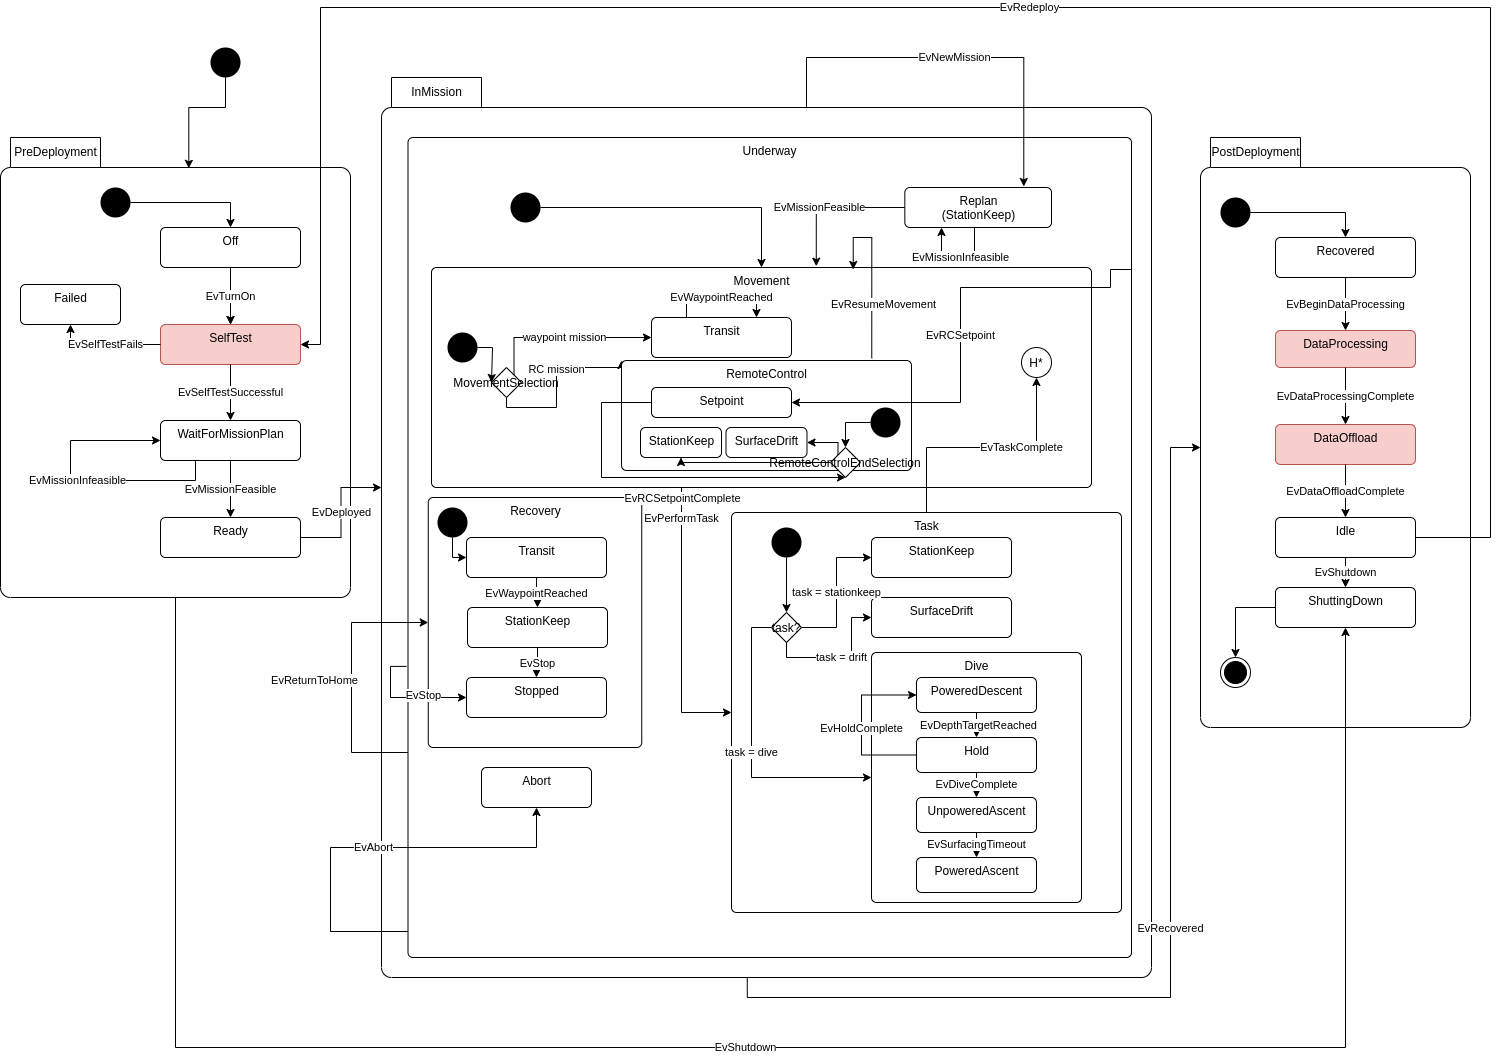
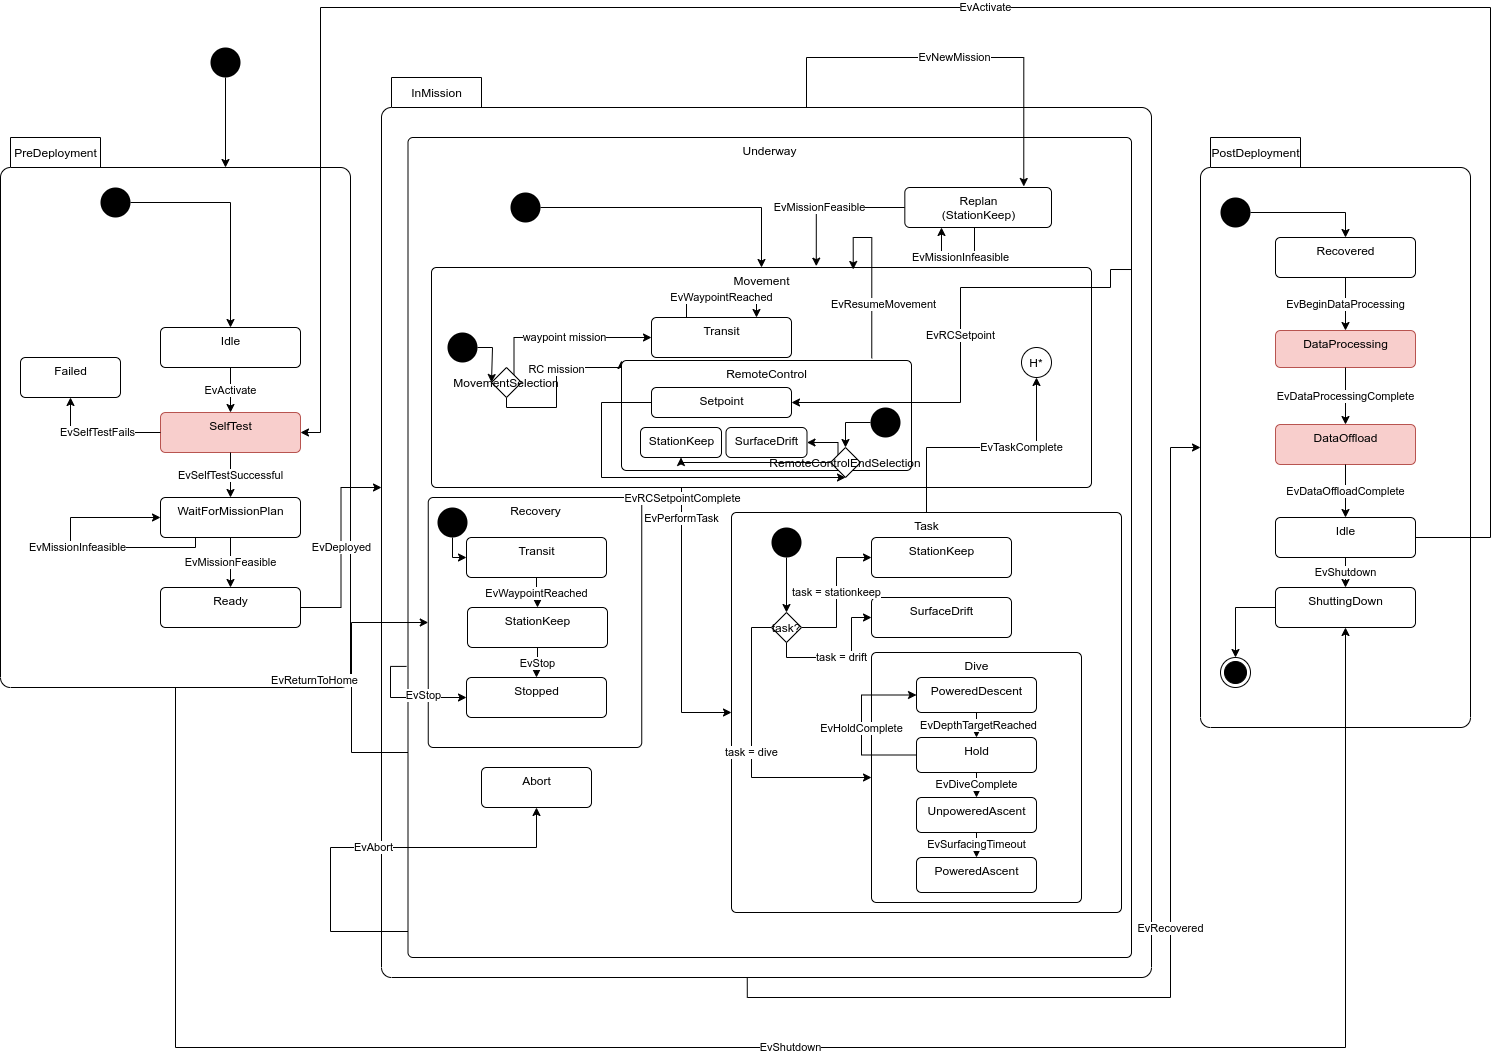
Add idle state before mission start. Update SelfTest to allow operations while Degraded (#76)
* Remove Off state, add Predeployment::Idle state before SelfTest. Change EvReploy to EvActivate, and use it trigger (Post/Pre)Deployment::Idle to SelfTest

* State-machine adjusted list of Command options under BotStatus

diff --git a/src/web/central_command/client/components/BotDetails.jsx b/src/web/central_command/client/components/BotDetails.jsx
@@ -9,49 +9,110 @@ import { formatLatitude, formatLongitude, formatAttitudeAngle } from './Utilitie
 let prec = 2
 let previous_status_time = Date.now() * 1e3
 
-let commandDescriptions = {
-    RESTART_ALL_SERVICES: "Restart Services",
-    REBOOT_COMPUTER: "Reboot Bot",
-    RECOVERED: "Recover Bot",
-    SHUTDOWN: "Shutdown Bot"
-}
+let commandList = [
+    {
+        enumString: 'ACTIVATE',
+        description: 'Activate Bot',
+        statesAvailable: [
+            /^.+__IDLE$/
+        ]
+    },
+    {
+        enumString: 'NEXT_TASK',
+        description: 'Next Task',
+        statesAvailable: [
+            /^IN_MISSION__.+$/
+        ]
+    },
+    {
+        enumString: 'RETURN_TO_HOME',
+        description: 'Return to Home',
+        statesAvailable: [
+            /^IN_MISSION__.+$/
+        ]
+    },
+    {
+        enumString: 'STOP',
+        description: 'Stop',
+        statesAvailable: [
+            /^IN_MISSION__.+$/
+        ]
+    },
+    {
+        enumString: 'RECOVERED',
+        description: 'Recover Bot',
+        statesAvailable: [
+            /^IN_MISSION__.+$/
+        ]
+    },
+    {
+        enumString: 'SHUTDOWN',
+        description: 'Shutdown Bot',
+        statesAvailable: [
+            /^POST_DEPLOYMENT__IDLE$/,
+            /^PRE_DEPLOYMENT__.+$/
+        ]
+    },
+    {
+        enumString: 'RESTART_ALL_SERVICES',
+        description: 'Restart Services'
+    },
+    {
+        enumString: 'REBOOT_COMPUTER',
+        description: 'Reboot Bot'
+    },
+    {
+        enumString: 'SHUTDOWN_COMPUTER',
+        description: 'Force Shutdown'
+    }
+]
 
-function commandOptionElement(command) {
-    return <option value={command} key={command}>{commandDescriptions[command]}</option>
-}
-
-function issueCommand(api, botId, commandType) {
-    if (confirm("Are you sure you'd like to " + commandDescriptions[commandType] + " (" + commandType + ")?")) {
-        let command = {
-            botId: botId,
-            type: commandType
+function getAvailableCommands(missionState) {
+    return commandList.filter((command) => {
+        let statesAvailable = command.statesAvailable
+        if (statesAvailable == null) {
+            return true
         }
 
-        api.postCommand(command)
+        for (let stateAvailable of statesAvailable) {
+            if (stateAvailable.test(missionState)) return true;
+        }
+
+        return false;
+    })
+}
+
+function issueCommand(api, botId, command) {
+    if (confirm("Are you sure you'd like to " + command.description + " (" + command.enumString + ")?")) {
+        let c = {
+            botId: botId,
+            type: command.enumString
+        }
+
+        console.log(c)
+        api.postCommand(c)
     }
 }
 
-function commandOptions(missionState) {
-    var commands = [
-        "",
-        "RESTART_ALL_SERVICES",
-        "REBOOT_COMPUTER",
-        "RECOVERED"
-    ]
+function getCommandSelectElement(api, bot) {
+    let availableCommands = getAvailableCommands(bot.missionState)
 
-    switch(missionState) {
-        case "POST_DEPLOYMENT__IDLE":
-            commands = commands.concat([
-                "SHUTDOWN",
-            ])
-            break;
-    }
+    return (
+        <select onChange={(evt) => { 
+            issueCommand(api, bot.botId, availableCommands[evt.target.value])
+            evt.target.selectedIndex = -1
+        }} value={-1}>
 
-    let commandOptionElements = commands.map((command) => {
-        return commandOptionElement(command)
-    })
+            <option value="-1" key="-1">...</option>
 
-    return commandOptionElements
+            {
+                availableCommands.map((command, index) => {
+                    return <option value={index} key={index}>{command.description}</option>
+                })            
+            }
+
+        </select>
+    )
 }
 
 // Get the table row for the health of the vehicle
@@ -126,9 +187,7 @@ export function BotDetailsComponent(bot, api) {
                 <tr>
                     <td>Command</td>
                     <td>
-                        <select onChange={(evt) => { issueCommand(api, bot.botId, evt.target.value); evt.target.selectedIndex = 0 }} value={-1}>
-                            {commandOptions(bot.missionState)}
-                        </select>
+                        { getCommandSelectElement(api, bot) }
                     </td>
                 </tr>
                 {healthRow(bot)}

diff --git a/src/bin/mission_manager/machine.h b/src/bin/mission_manager/machine.h
@@ -43,7 +43,6 @@ struct MissionManagerStateMachine;
     };
 
 // events
-STATECHART_EVENT(EvTurnOn)
 STATECHART_EVENT(EvSelfTestSuccessful)
 STATECHART_EVENT(EvSelfTestFails)
 struct EvMissionFeasible : boost::statechart::event<EvMissionFeasible>
@@ -74,7 +73,7 @@ STATECHART_EVENT(EvBeginDataProcessing)
 STATECHART_EVENT(EvDataProcessingComplete)
 STATECHART_EVENT(EvDataOffloadComplete)
 STATECHART_EVENT(EvShutdown)
-STATECHART_EVENT(EvRedeploy)
+STATECHART_EVENT(EvActivate)
 STATECHART_EVENT(EvDepthTargetReached)
 STATECHART_EVENT(EvDiveComplete)
 STATECHART_EVENT(EvHoldComplete)
@@ -132,7 +131,7 @@ struct Notify : public AppMethodsAccess<Derived>
 struct PreDeployment;
 namespace predeployment
 {
-struct Off;
+struct Idle;
 struct SelfTest;
 struct Failed;
 struct WaitForMissionPlan;
@@ -262,7 +261,7 @@ struct MissionManagerStateMachine
 
   private:
     apps::MissionManager& app_;
-    jaiabot::protobuf::MissionState state_{jaiabot::protobuf::PRE_DEPLOYMENT__OFF};
+    jaiabot::protobuf::MissionState state_{jaiabot::protobuf::PRE_DEPLOYMENT__IDLE};
     jaiabot::protobuf::MissionPlan plan_;
     jaiabot::protobuf::SetpointType setpoint_type_{jaiabot::protobuf::SETPOINT_STOP};
     std::unique_ptr<goby::util::UTMGeodesy> geodesy_;
@@ -271,11 +270,11 @@ struct MissionManagerStateMachine
 struct PreDeployment
     : boost::statechart::state<PreDeployment,              // (CRTP)
                                MissionManagerStateMachine, // Parent state (or machine)
-                               predeployment::Off          // Initial child substate
+                               predeployment::Idle         // Initial child substate
                                >
 {
     using StateBase =
-        boost::statechart::state<PreDeployment, MissionManagerStateMachine, predeployment::Off>;
+        boost::statechart::state<PreDeployment, MissionManagerStateMachine, predeployment::Idle>;
 
     // entry action
     PreDeployment(typename StateBase::my_context c) : StateBase(c) {}
@@ -288,14 +287,14 @@ struct PreDeployment
 
 namespace predeployment
 {
-struct Off : boost::statechart::state<Off, PreDeployment>,
-             Notify<Off, protobuf::PRE_DEPLOYMENT__OFF>
+struct Idle : boost::statechart::state<Idle, PreDeployment>,
+              Notify<Idle, protobuf::PRE_DEPLOYMENT__IDLE>
 {
-    using StateBase = boost::statechart::state<Off, PreDeployment>;
-    Off(typename StateBase::my_context c) : StateBase(c) {}
-    ~Off() {}
+    using StateBase = boost::statechart::state<Idle, PreDeployment>;
+    Idle(typename StateBase::my_context c) : StateBase(c) {}
+    ~Idle() {}
 
-    using reactions = boost::mpl::list<boost::statechart::transition<EvTurnOn, SelfTest>>;
+    using reactions = boost::mpl::list<boost::statechart::transition<EvActivate, SelfTest>>;
 };
 
 struct SelfTest : boost::statechart::state<SelfTest, PreDeployment>,
@@ -1005,7 +1004,7 @@ struct Idle : boost::statechart::state<Idle, PostDeployment>,
 
     using reactions =
         boost::mpl::list<boost::statechart::transition<EvShutdown, ShuttingDown>,
-                         boost::statechart::transition<EvRedeploy, predeployment::SelfTest>>;
+                         boost::statechart::transition<EvActivate, predeployment::SelfTest>>;
 };
 
 struct ShuttingDown : boost::statechart::state<ShuttingDown, PostDeployment>,

diff --git a/src/bin/mission_manager/app.cpp b/src/bin/mission_manager/app.cpp
@@ -69,8 +69,6 @@ void jaiabot::apps::MissionManager::initialize()
 {
     machine_.reset(new statechart::MissionManagerStateMachine(*this));
     machine_->initiate();
-
-    machine_->process_event(statechart::EvTurnOn());
 }
 
 void jaiabot::apps::MissionManager::finalize()
@@ -190,11 +188,16 @@ jaiabot::apps::MissionManager::MissionManager()
 
     // subscribe for health data
     interprocess().subscribe<goby::middleware::groups::health_report>(
-        [this](const goby::middleware::protobuf::VehicleHealth& vehicle_health) {
-            if (vehicle_health.state() == goby::middleware::protobuf::HEALTH__OK)
+        [this](const goby::middleware::protobuf::VehicleHealth& vehicle_health)
+        {
+            if (vehicle_health.state() != goby::middleware::protobuf::HEALTH__FAILED)
             {
                 // TODO make SelfTest include more information?
                 machine_->process_event(statechart::EvSelfTestSuccessful());
+            }
+            else
+            {
+                machine_->process_event(statechart::EvSelfTestFails());
             }
         });
 }
@@ -303,7 +306,7 @@ void jaiabot::apps::MissionManager::handle_command(const protobuf::Command& comm
         case protobuf::Command::RECOVERED:
             machine_->process_event(statechart::EvRecovered());
             break;
-        case protobuf::Command::REDEPLOY: machine_->process_event(statechart::EvRedeploy()); break;
+        case protobuf::Command::ACTIVATE: machine_->process_event(statechart::EvActivate()); break;
         case protobuf::Command::SHUTDOWN: machine_->process_event(statechart::EvShutdown()); break;
 
         case protobuf::Command::REMOTE_CONTROL_SETPOINT:
